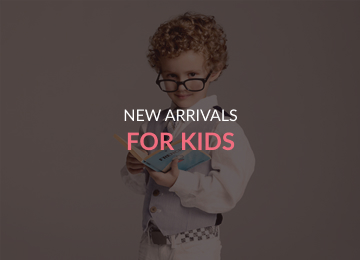
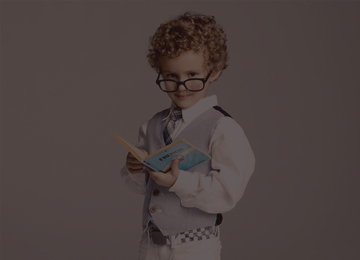
Some edits

Changed region(s): [[0.3361, 0.4, 0.6722, 0.5846]]

diff --git a/index.html b/index.html
@@ -100,7 +100,7 @@
                     <h3 class="sales-item__title">for men</h3>
                 </li>
                 <li class="sales__item sales-item sales-item--kids">
-                    <p class="sales-item__text">30% off</p>
+                    <p class="sales-item__text">new arrivals</p>
                     <h3 class="sales-item__title">for kids</h3>
                 </li>
                 <li class="sales__item sales-item sales-item--accesories">
